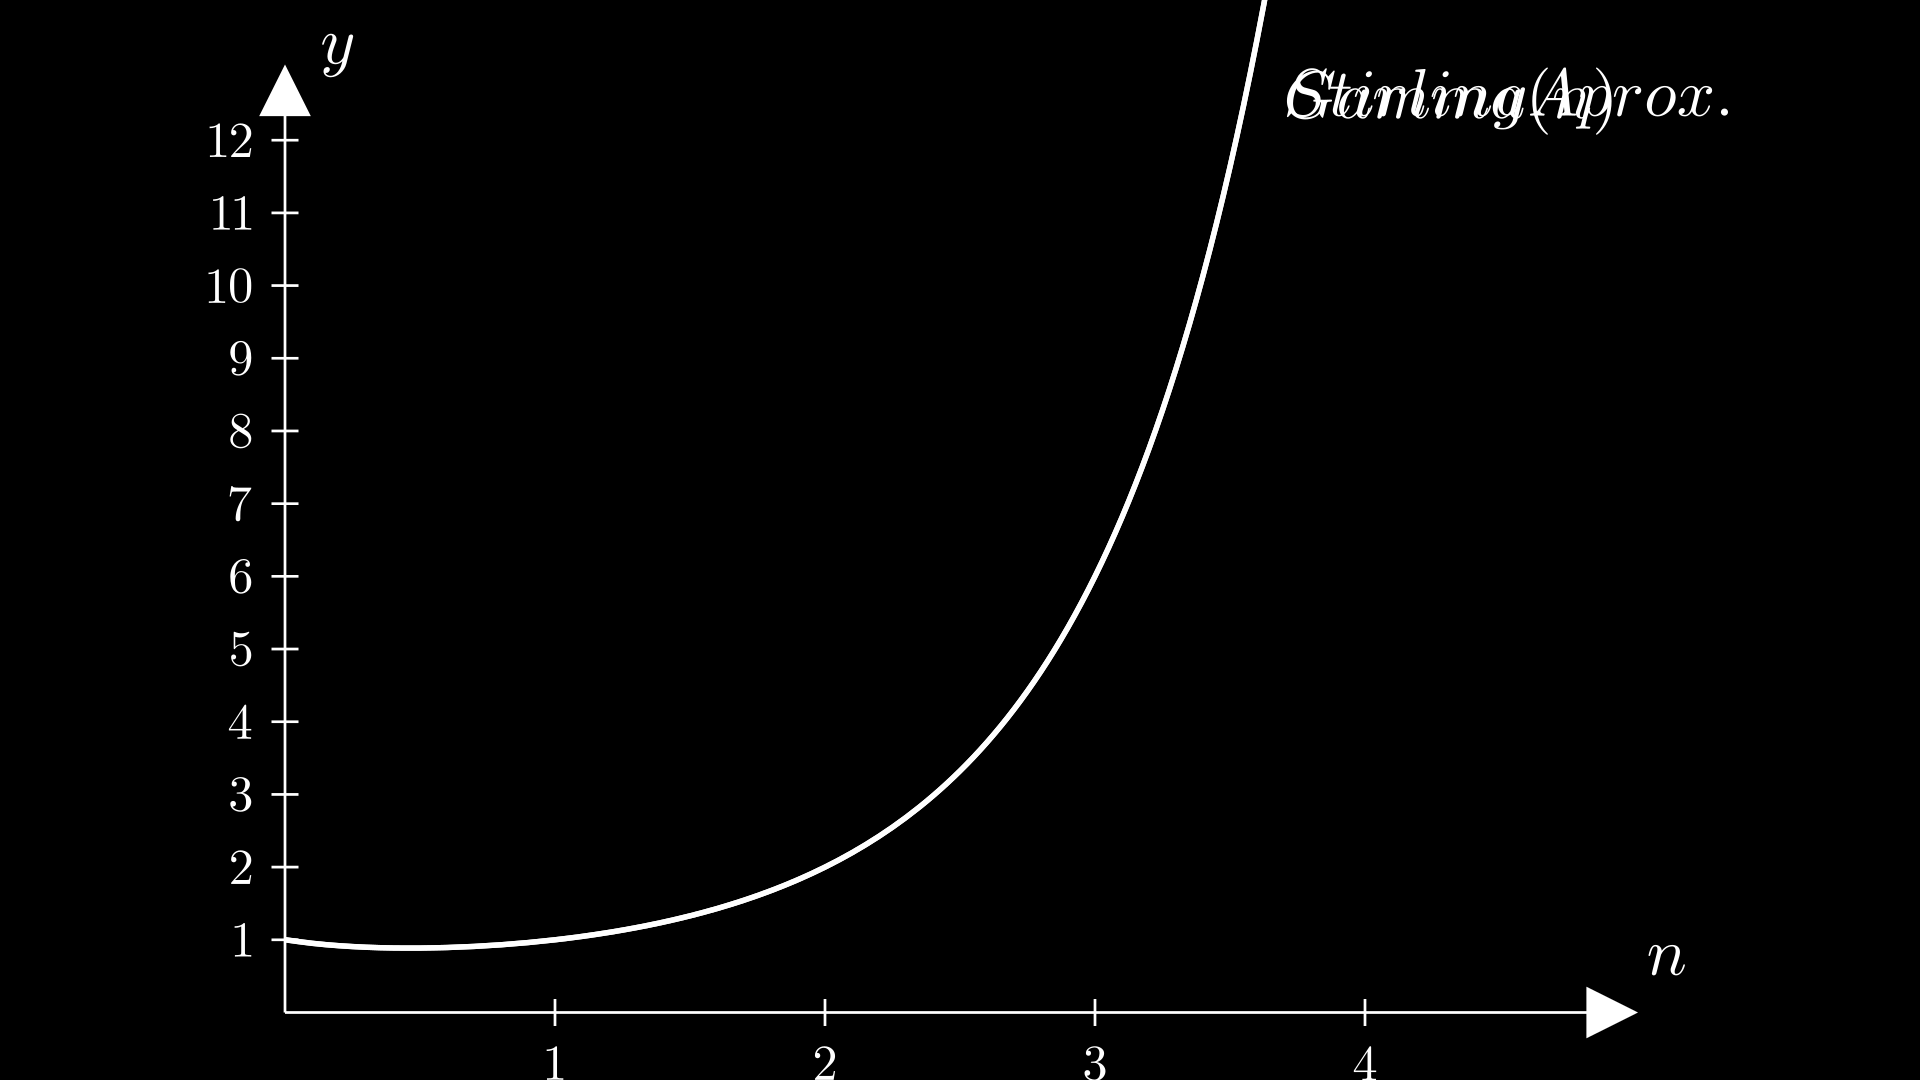
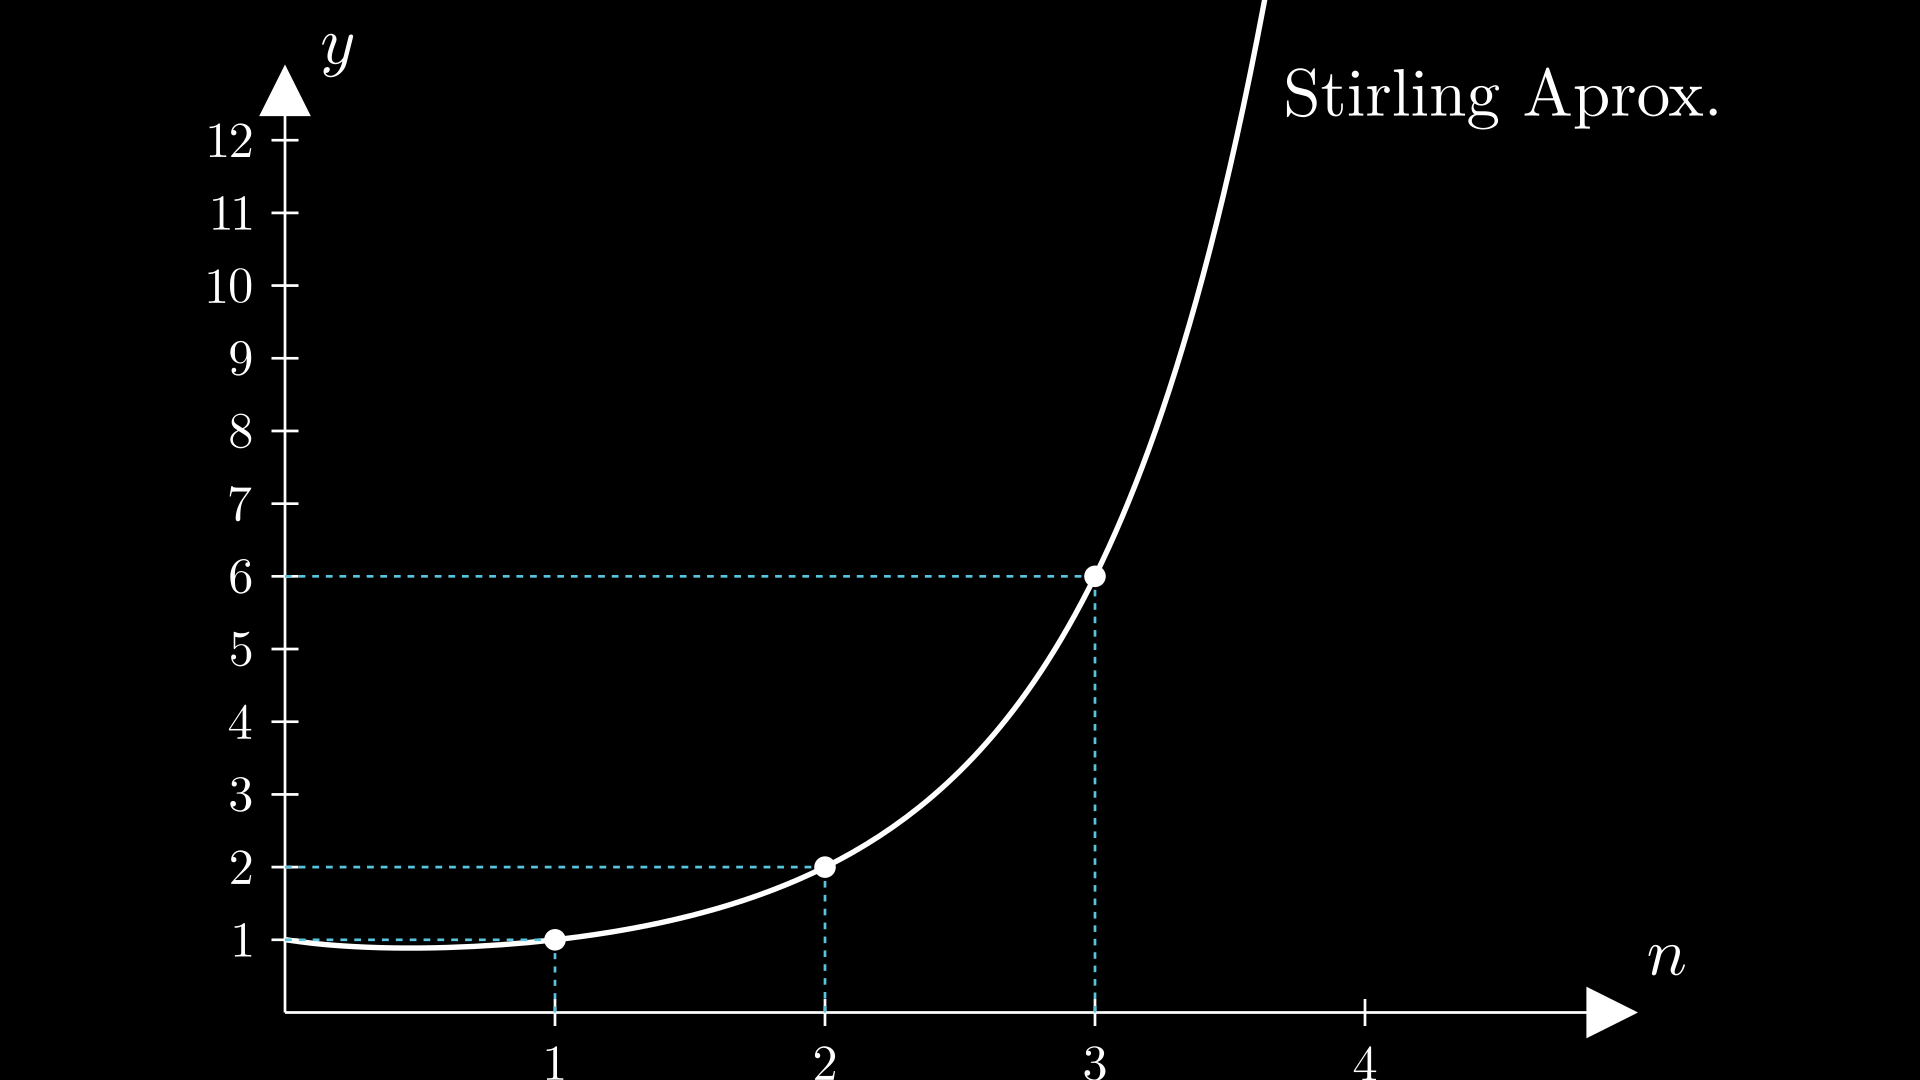
stirling approx

diff --git a/plot_Expansion_Stirling.py b/plot_Expansion_Stirling.py
@@ -1,5 +1,4 @@
 from manim import *
-from math import gamma
 epsilon = 0.5
 class GraphExample(Scene):
     def construct(self):
@@ -35,12 +34,14 @@ class GraphExample(Scene):
             x_range=[0,4],
             color = WHITE
         )
-        Stirling_label = axes.get_graph_label(Stirling_graph, "Stirling Aprox.")
+        Stirling_label = axes.get_graph_label(Stirling_graph, Tex("Stirling Aprox."))
         self.add(Stirling_graph,Stirling_label)
-        Gamma_graph = axes.plot(
-            lambda t: gamma(t+1), 
-            x_range=[0,4],
-            color = WHITE
-        )
-        Gamma_label = axes.get_graph_label(Gamma_graph, "Gamma(n)")
-        self.add(Gamma_graph,Gamma_label)
+        ans =1
+        for i in range(1,4):
+            ans*=i
+            dot = Dot(color=WHITE)
+            pos = axes.c2p(i,ans)
+            dot.move_to(pos)
+            line_v = axes.get_vertical_line(pos,color=BLUE)
+            line_h = axes.get_horizontal_line(pos,color=BLUE)
+            self.add(line_v,line_h,dot)

diff --git a/media/Tex/64330f1f148f95f2.tex b/media/Tex/64330f1f148f95f2.tex
@@ -1,0 +1,9 @@
+\documentclass[preview]{standalone}
+\usepackage[english]{babel}
+\usepackage{amsmath}
+\usepackage{amssymb}
+\begin{document}
+\begin{center}
+Stirling Aprox.
+\end{center}
+\end{document}
